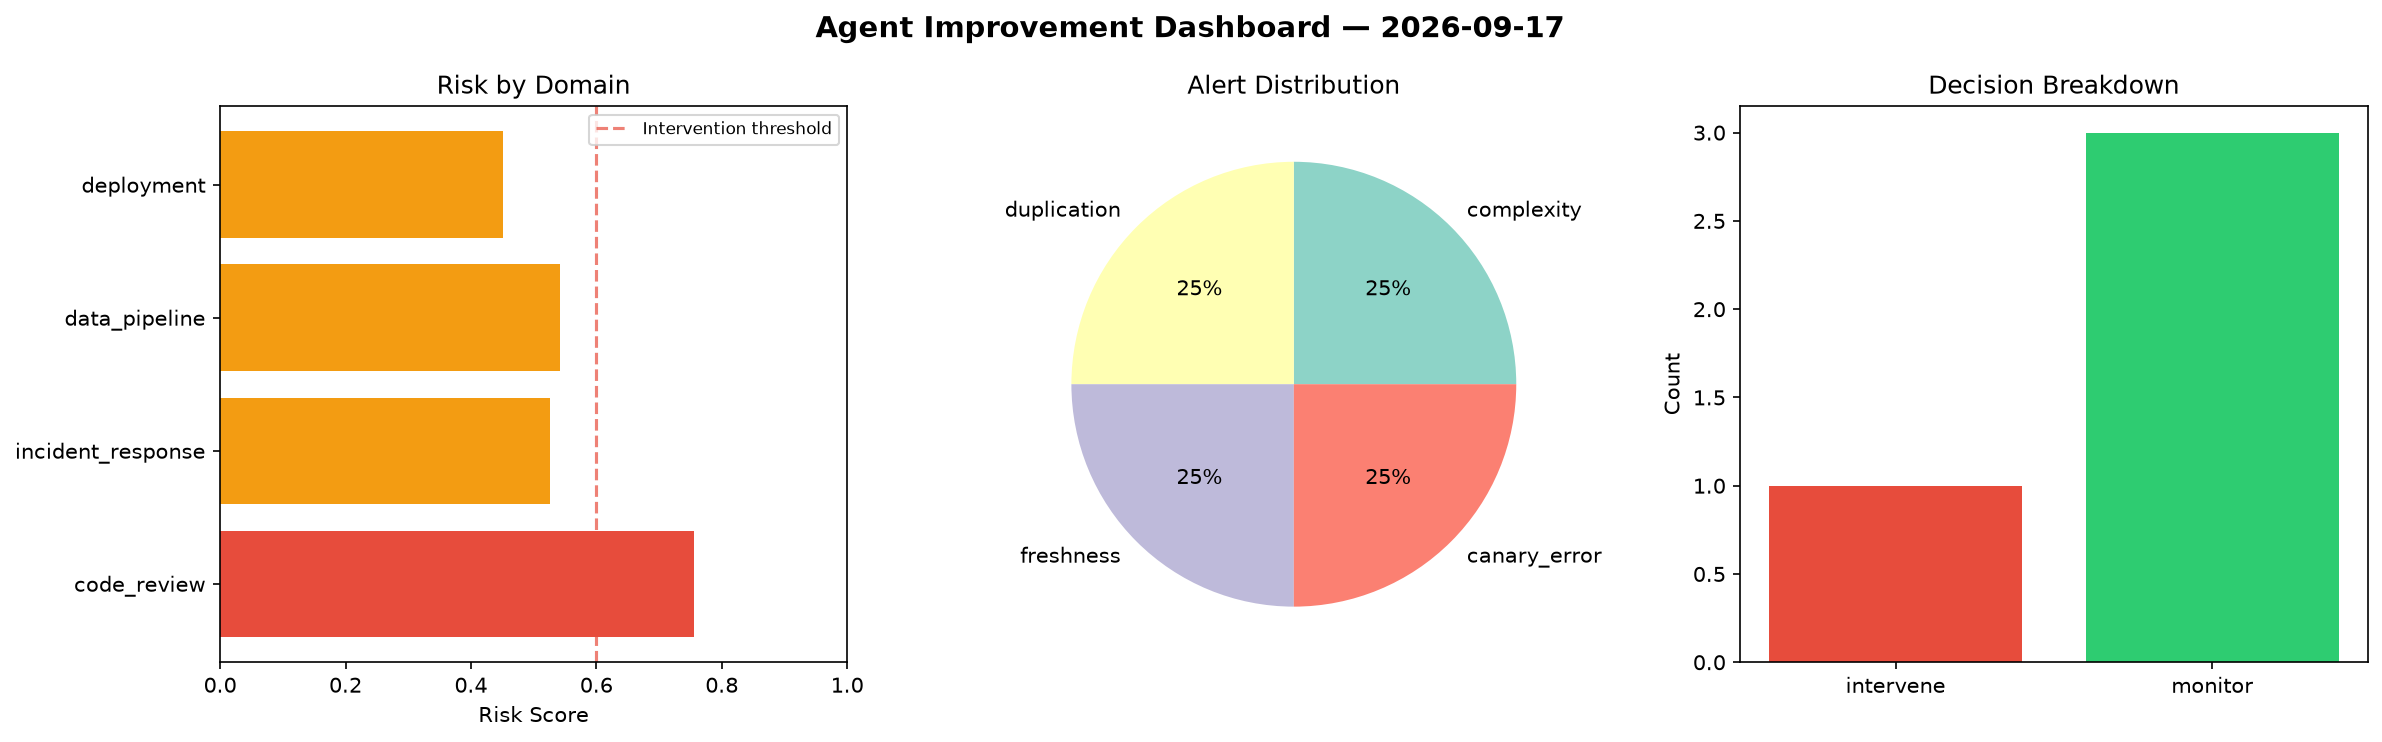
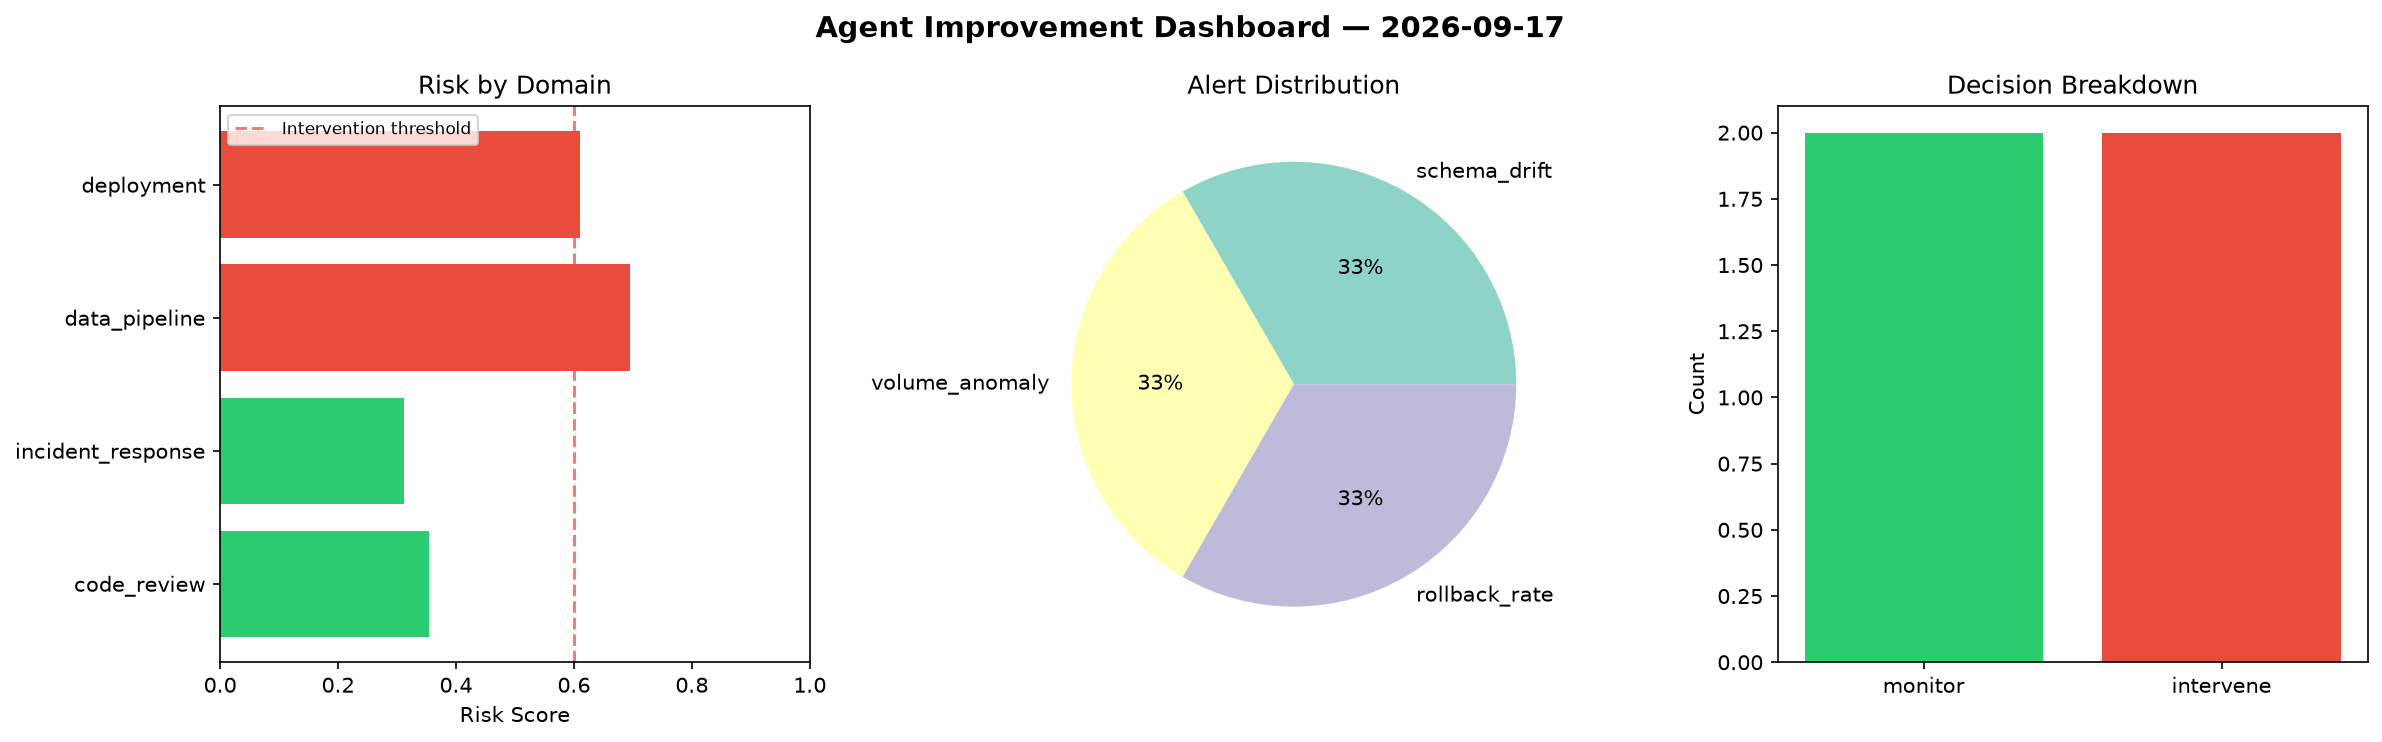
agent-improvement: daily cycle 2026-09-17T22:50

diff --git a/logs/2026-09-17.md b/logs/2026-09-17.md
@@ -1,6 +1,6 @@
 # Agent Improvement Report — 2026-09-17
 
-**Cycle ID:** `9939928b` | **Avg Risk:** 0.5686 | **Interventions:** 1/4
+**Cycle ID:** `ce21a2b2` | **Avg Risk:** 0.4927 | **Interventions:** 2/4
 
 ![Dashboard](2026-09-17_dashboard.png)
 
@@ -10,18 +10,18 @@
 
 | Domain | Risk Score | Decision | Alerts |
 |--------|-----------|----------|--------|
-| code_review | 0.7559 | intervene | complexity, duplication |
-| incident_response | 0.5257 | monitor | none |
-| data_pipeline | 0.5422 | monitor | freshness |
-| deployment | 0.4505 | monitor | canary_error |
+| code_review | 0.3541 | monitor | none |
+| incident_response | 0.3112 | monitor | none |
+| data_pipeline | 0.6949 | intervene | schema_drift, volume_anomaly |
+| deployment | 0.6106 | intervene | rollback_rate |
 
 ## Delta vs Yesterday
 
 | Domain | Today | Yesterday | Change |
 |--------|-------|-----------|--------|
-| code_review | 0.7559 | 0.7726 | 📉 -2.2% |
-| incident_response | 0.5257 | 0.738 | 📉 -28.8% |
-| data_pipeline | 0.5422 | 0.2551 | 📈 112.5% |
-| deployment | 0.4505 | 0.6899 | 📉 -34.7% |
+| code_review | 0.3541 | 0.7726 | 📉 -54.2% |
+| incident_response | 0.3112 | 0.738 | 📉 -57.8% |
+| data_pipeline | 0.6949 | 0.2551 | 📈 172.4% |
+| deployment | 0.6106 | 0.6899 | 📉 -11.5% |
 
-**Refinement:** `{'adjustment': 'maintain', 'trend': 'improving', 'window': 4}`
+**Refinement:** `{'adjustment': 'tighten_thresholds', 'trend': 'degrading', 'window': 4}`
